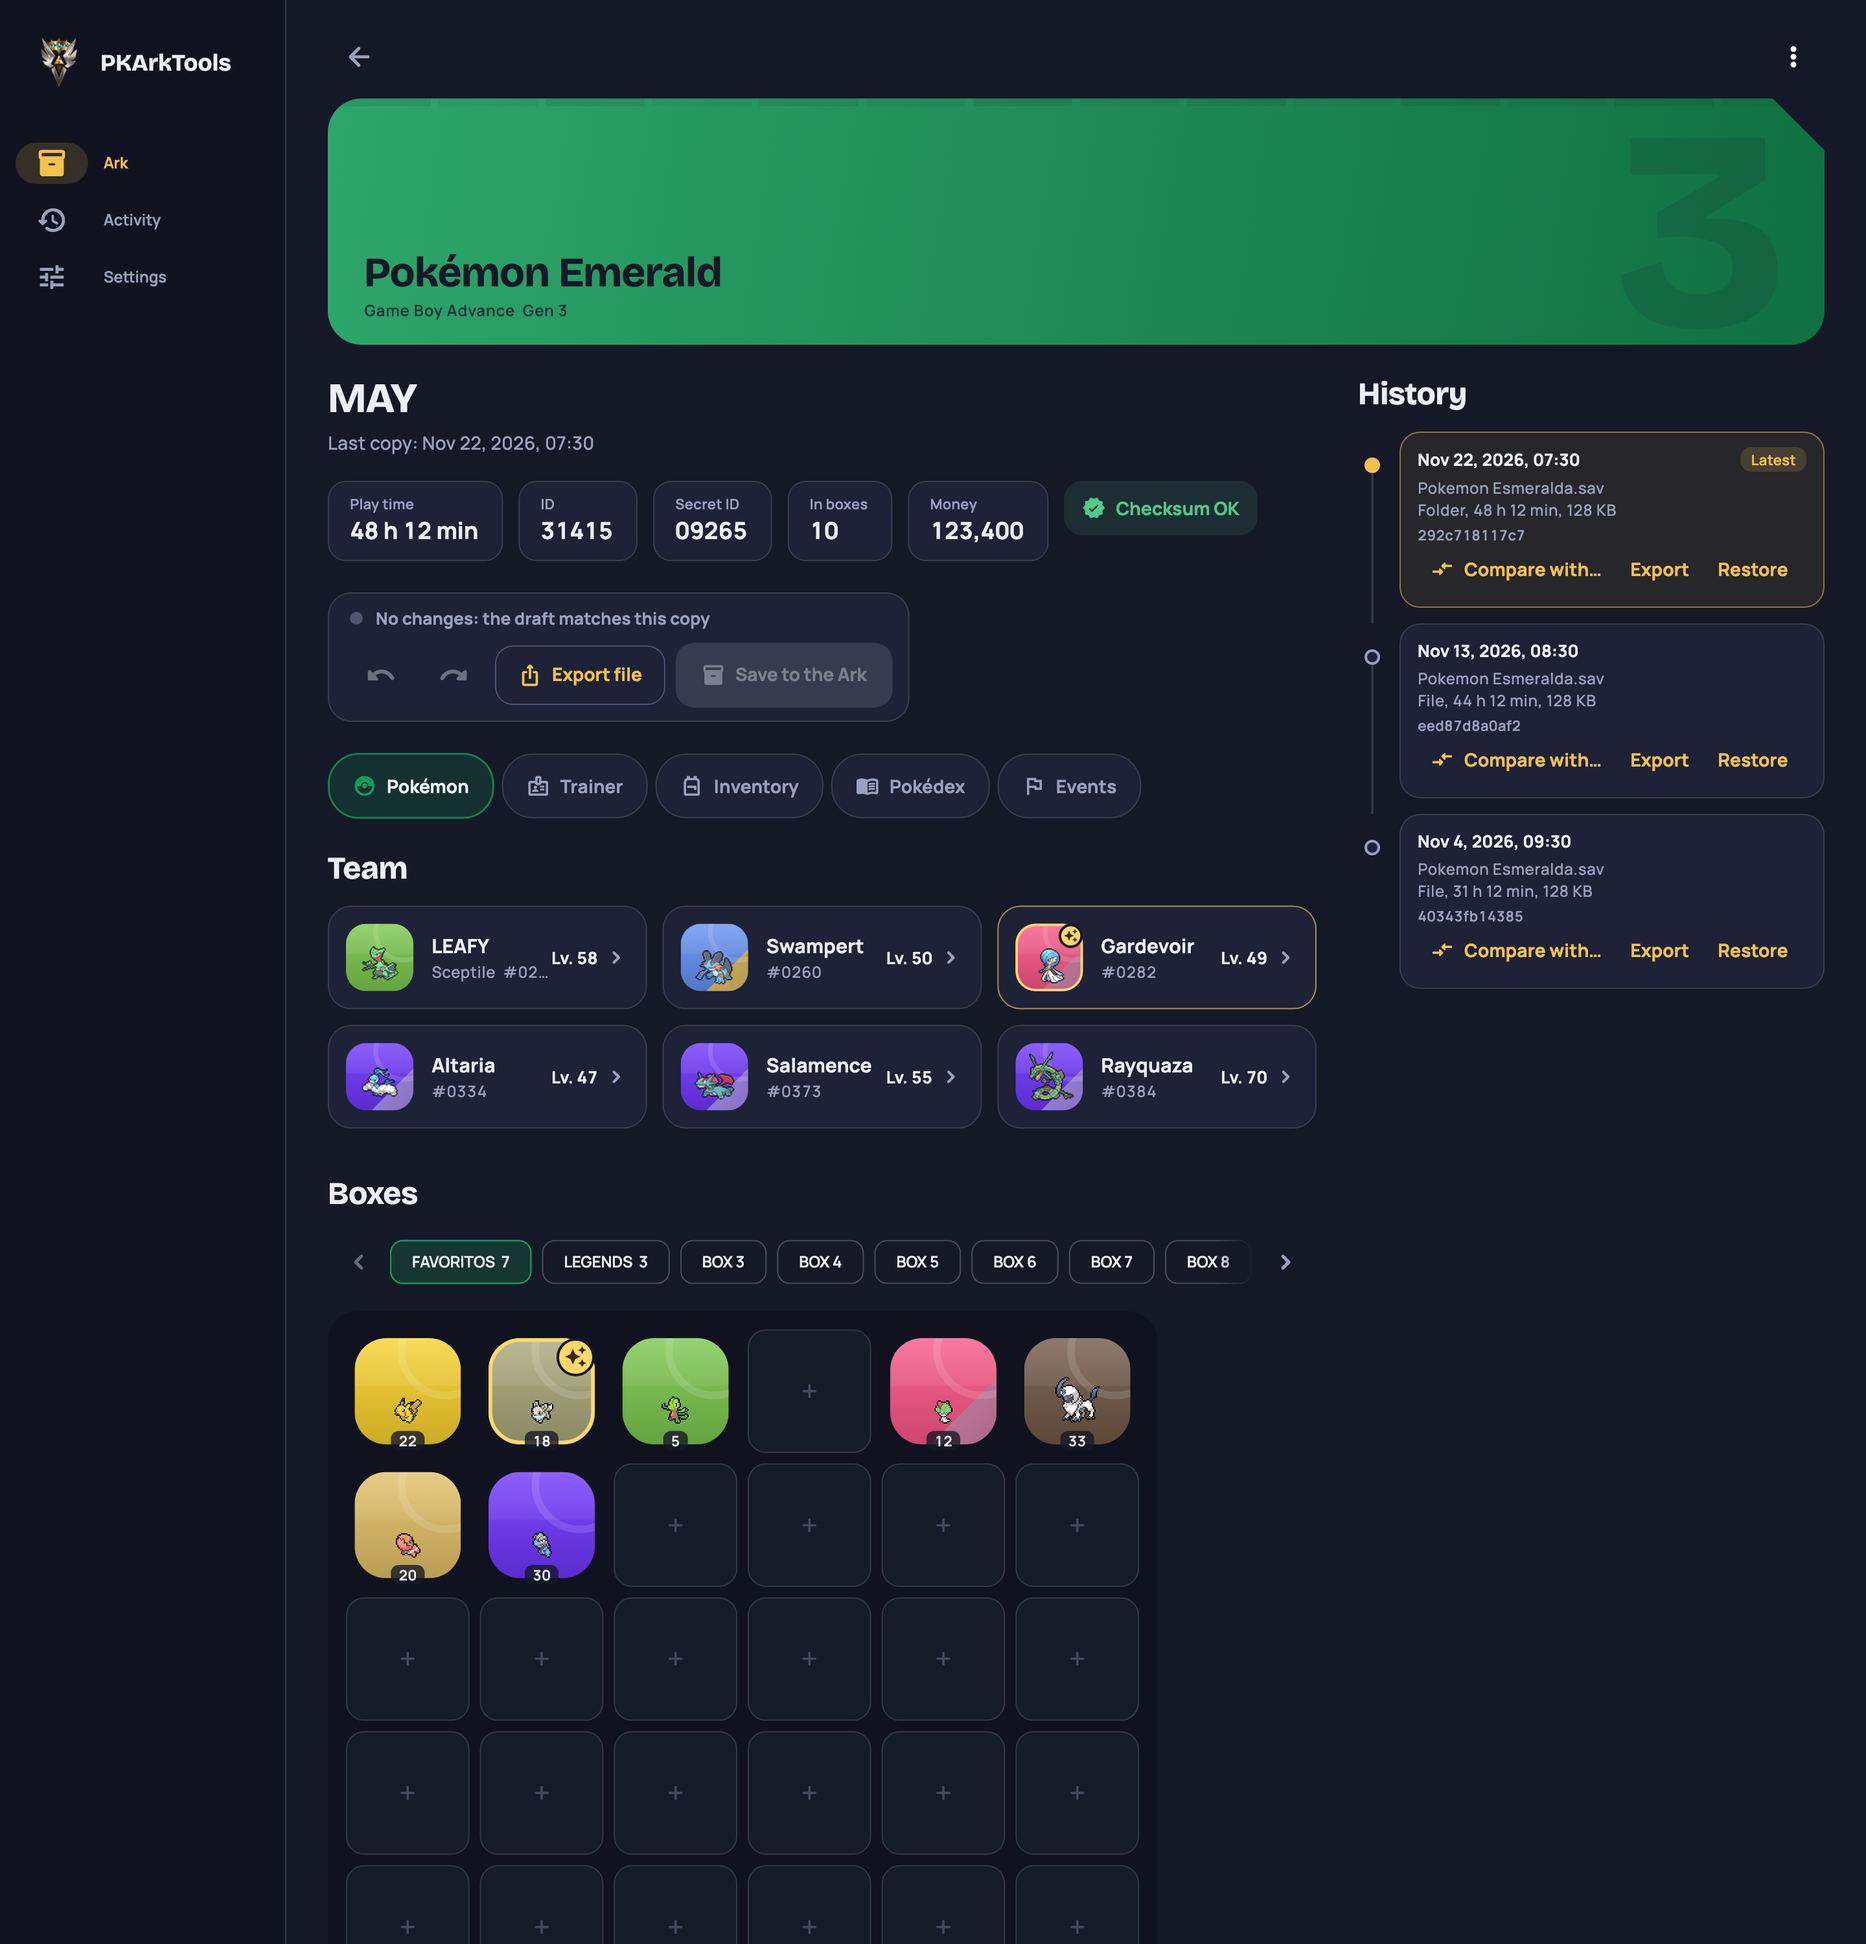
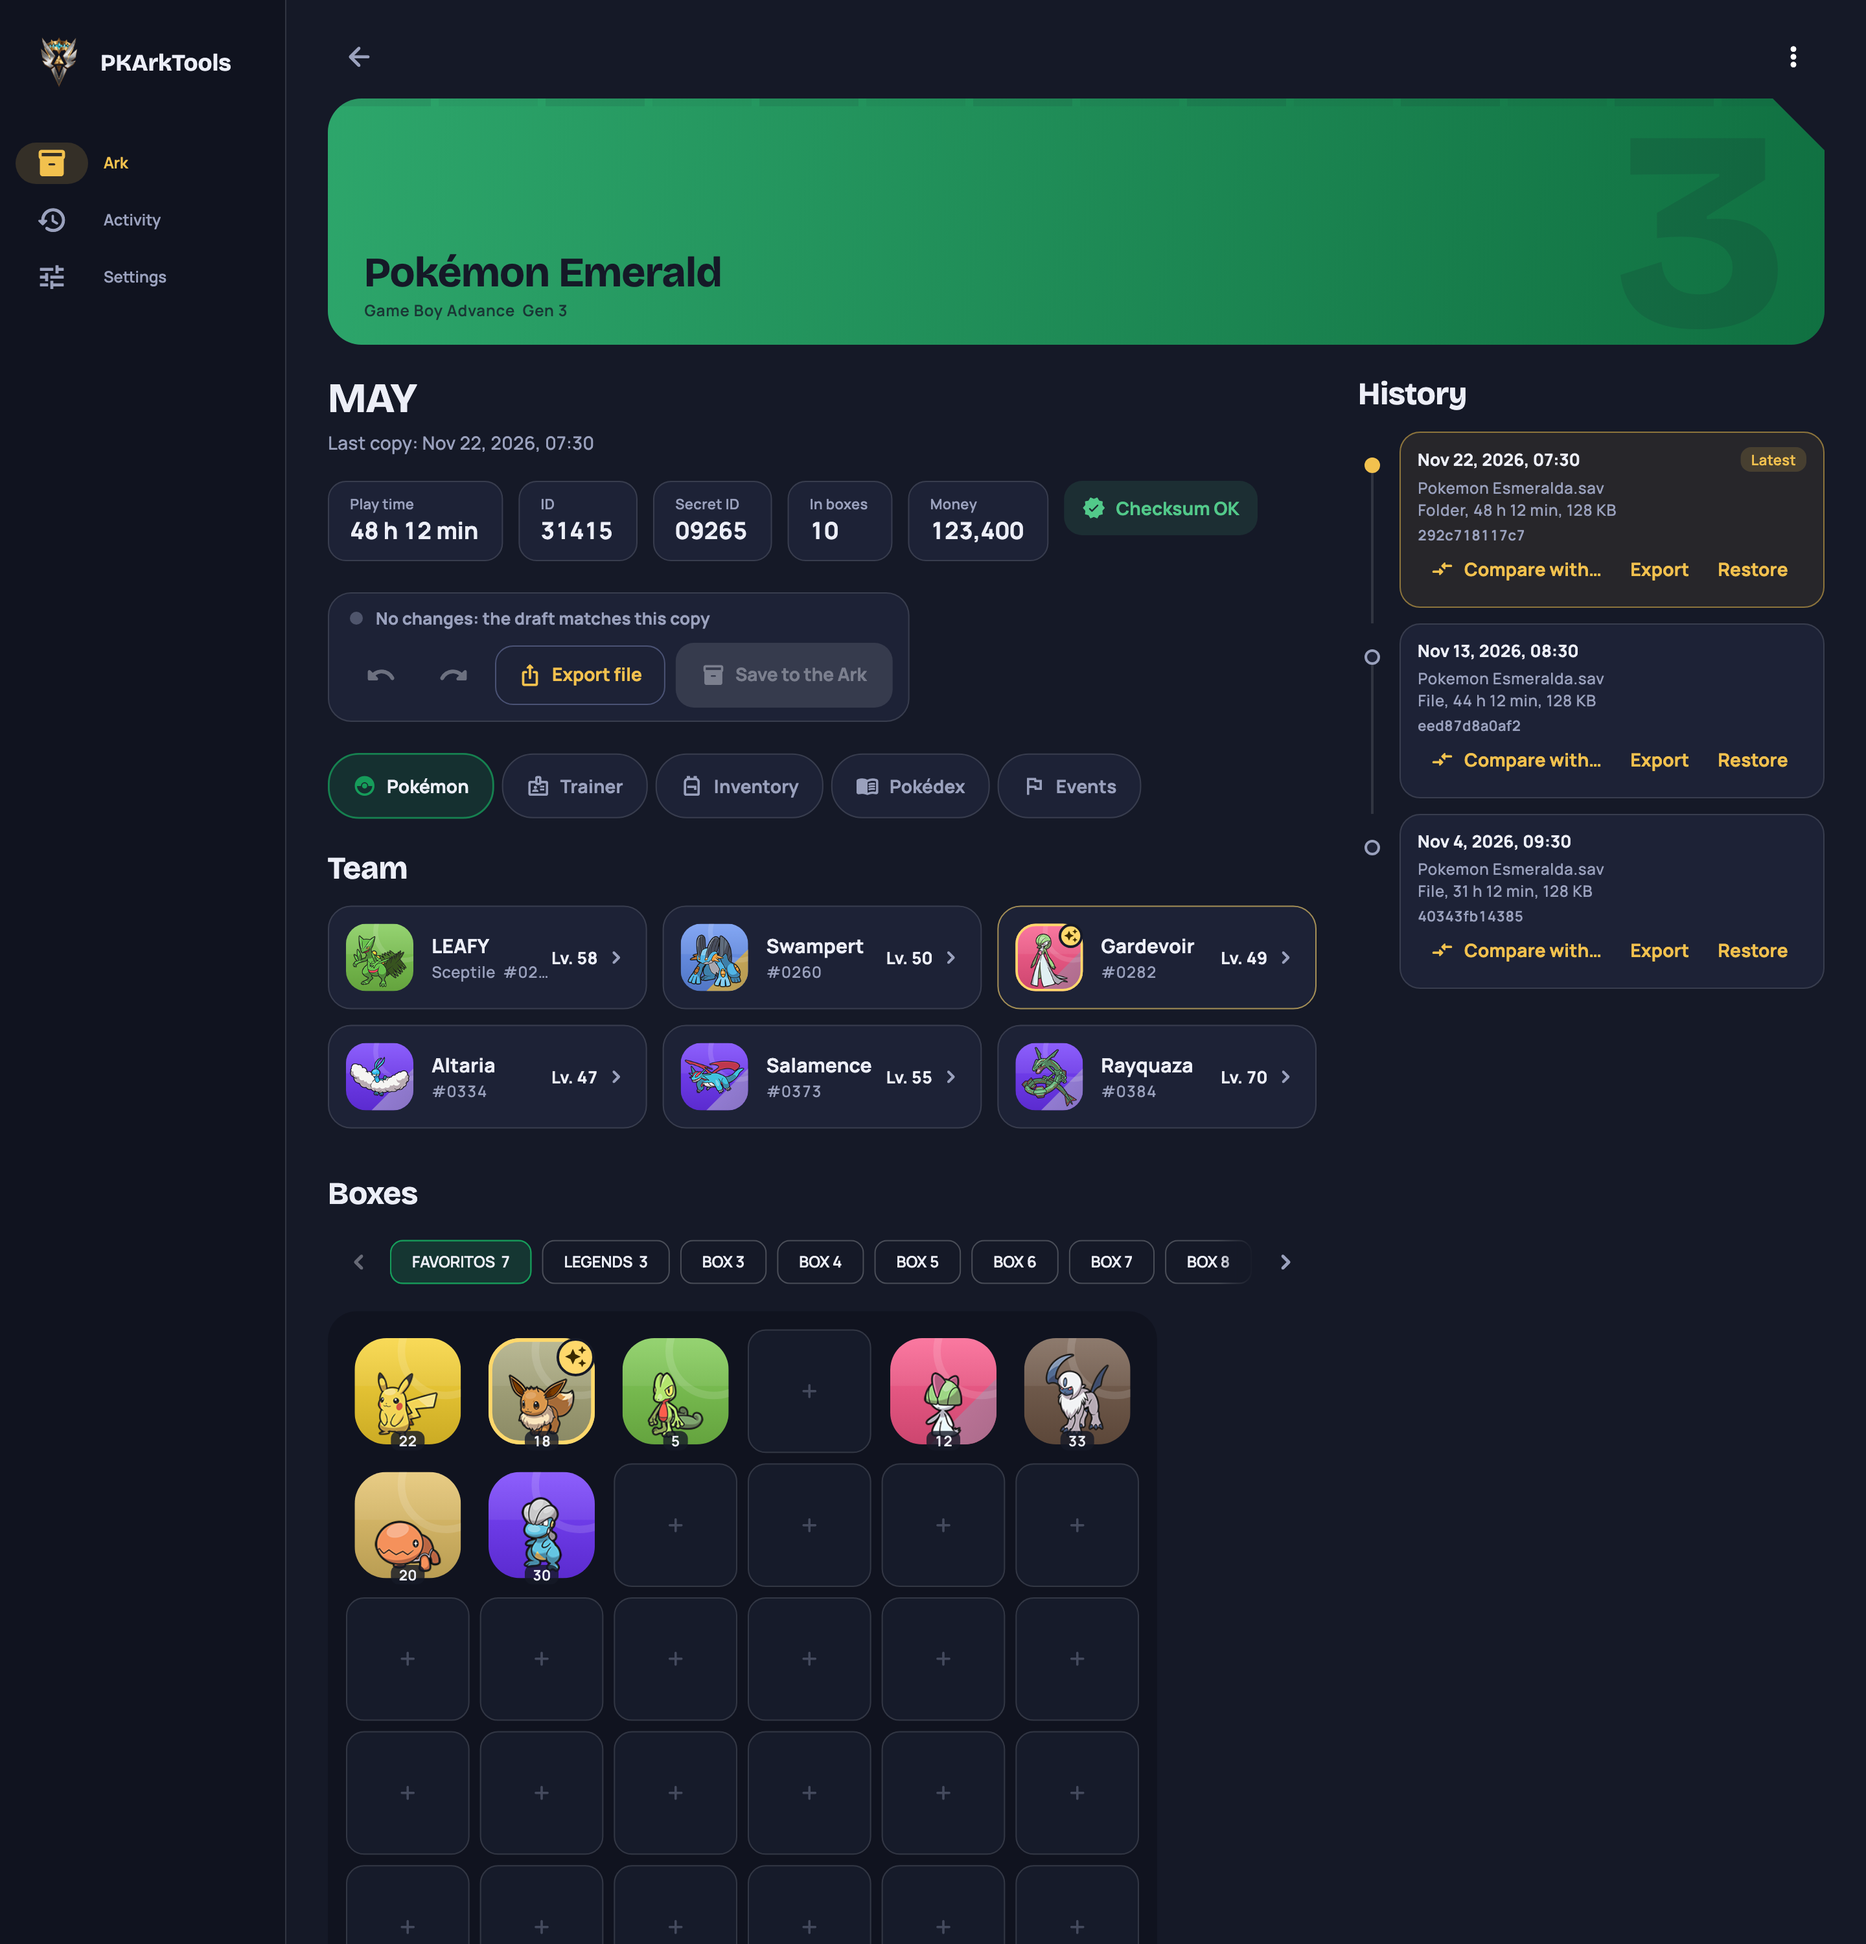
Capturas: pantallas con iconos regeneradas en inglés (offscreen) con los iconos de HOME

diff --git a/docs/usuario/iconos.md b/docs/usuario/iconos.md
@@ -49,7 +49,7 @@ y se reintenta más tarde.
 <img src="../screenshots/v2/mac_08_ajustes_iconos.png" width="480" alt="Ajustes de iconos">
 
 * Tamaño de la caché y de la descarga completa.
-* **Descargar todos los iconos** (~17 MB, unos 2200 archivos; menos de un
+* **Descargar todos los iconos** (~16 MB, unos 2200 archivos; menos de un
   minuto con buena conexión): útil antes de quedarte sin conexión. Empieza por
   los Pokémon de tus saves, muestra archivos y MB, se puede cancelar y, si se
   corta, la siguiente vez continúa donde se quedó. Sin conexión avisa enseguida.

diff --git a/CHANGELOG.md b/CHANGELOG.md
@@ -32,7 +32,7 @@ que la siguen son los hitos internos de desarrollo que llevaron a ella.
   [antes/después](docs/screenshots/iconos_antes_despues.png).
 - Variocolor: la nueva fuente no tiene iconos variocolor, así que se mantiene
   la insignia y el borde dorado.
-- «Descargar todos los iconos» pasa a ~17 MB (2168 archivos); la caché de la
+- «Descargar todos los iconos» pasa a ~16 MB (2168 archivos); la caché de la
   versión anterior se borra sola. Ajustes › Acerca de indica ambas fuentes.
 
 ## [0.1.0] — 2026-11-23
